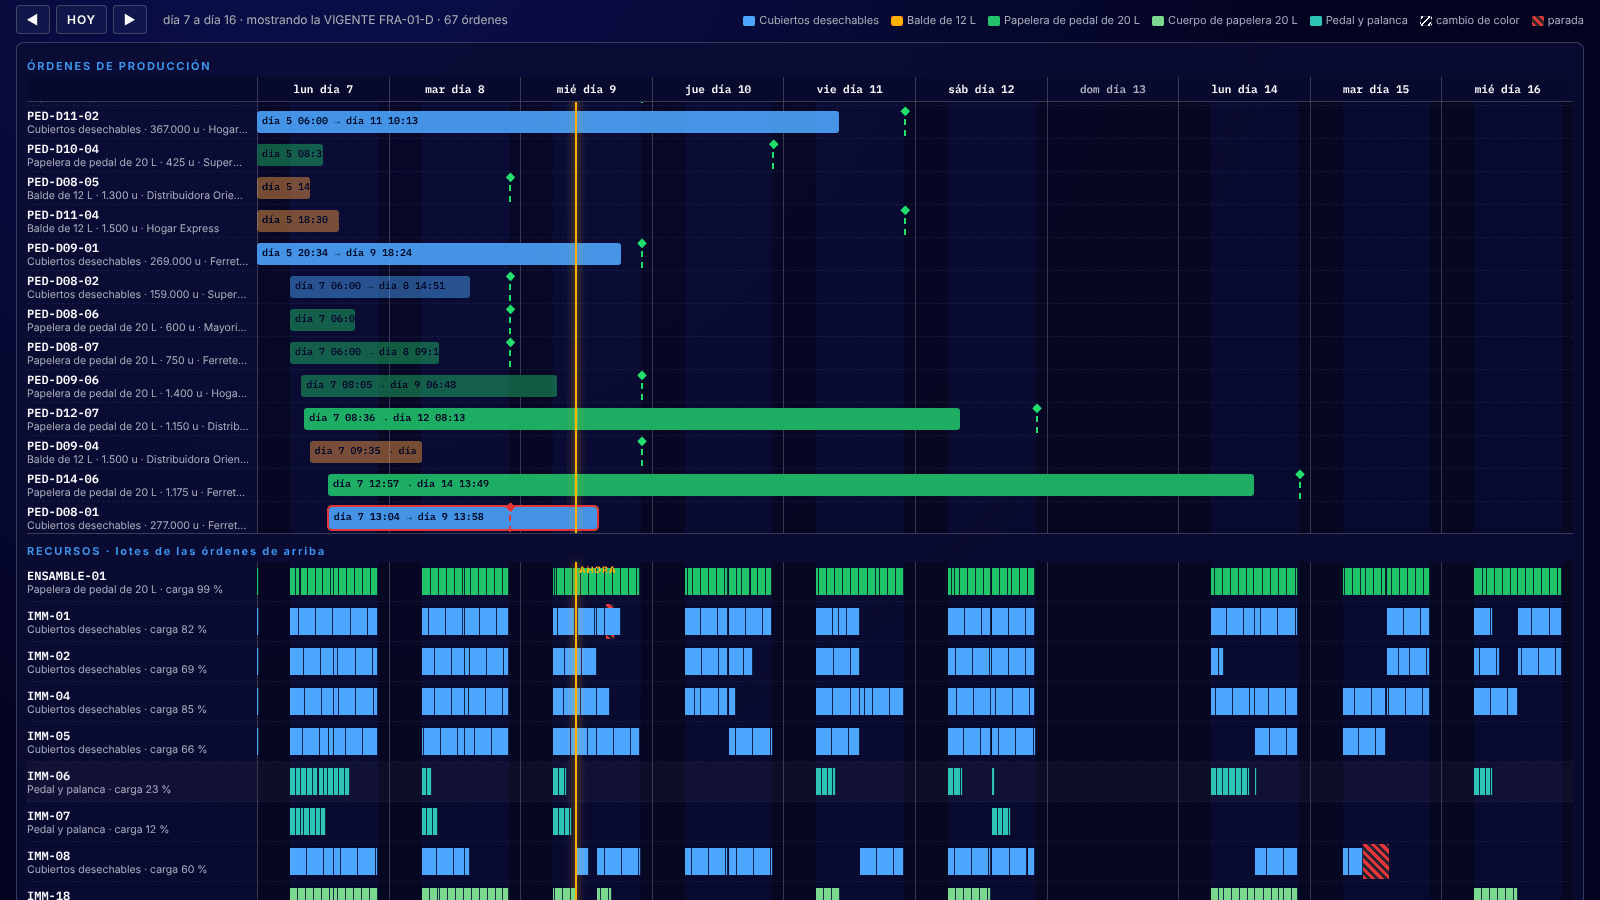
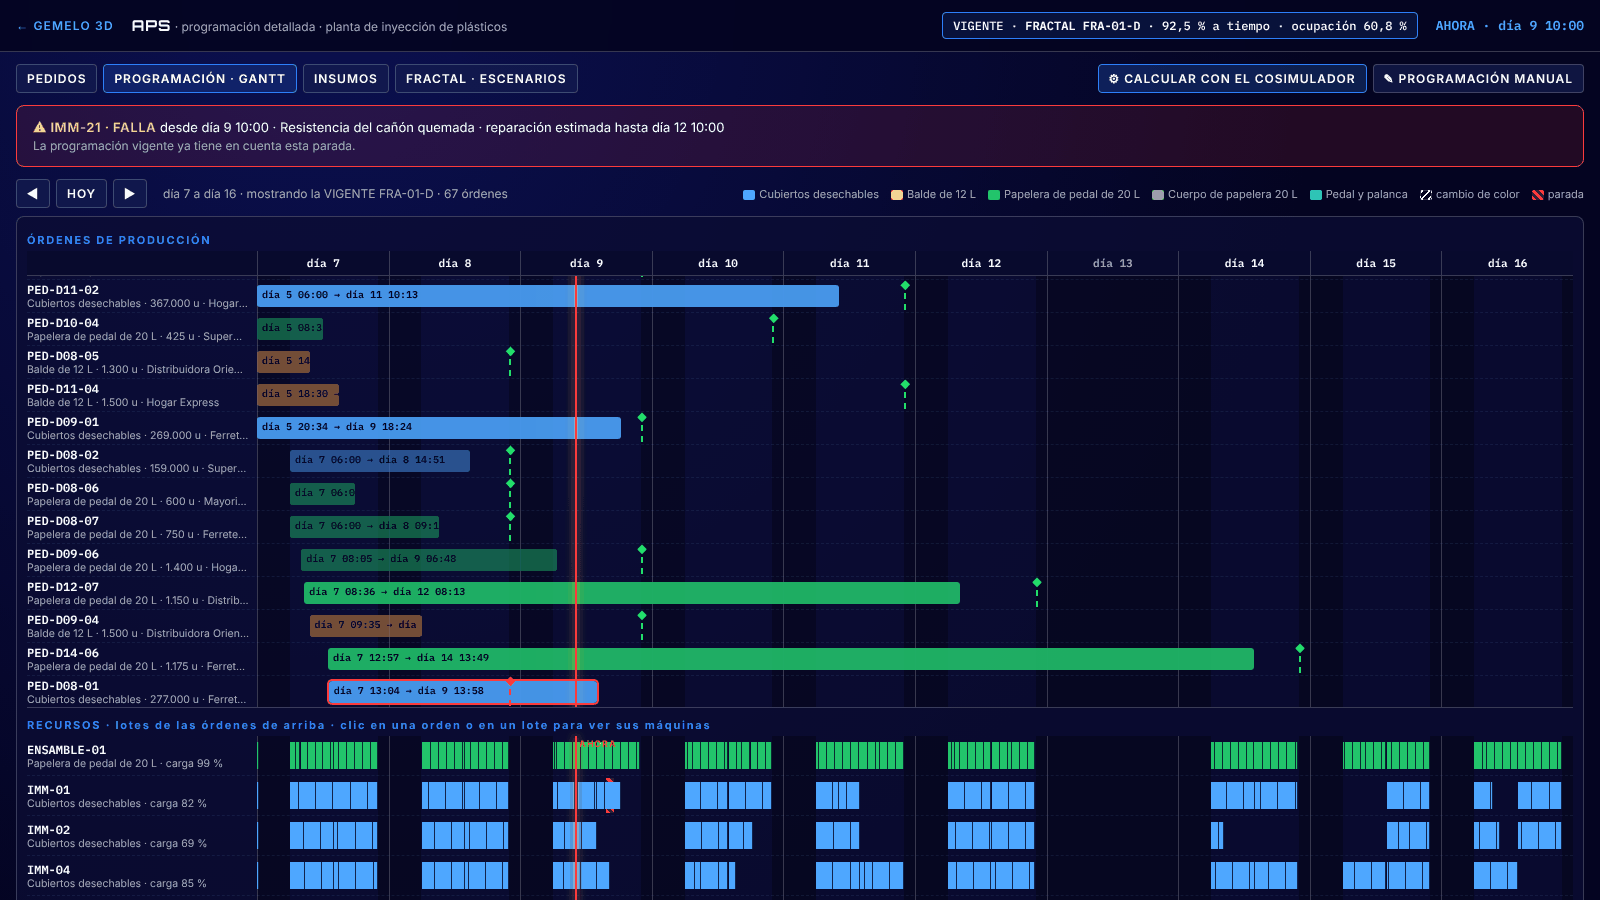
Gantt de plásticos: al seleccionar una orden se ven sus máquinas
- Las máquinas de la orden seleccionada suben, se resaltan y muestran sus lotes y horas; el resto se atenúa.
- Los lotes de la orden llevan borde y la fila de la orden lista sus máquinas.
- Encabezado del Gantt con "día N", sin días de la semana.
- Captura y segmento nuevos en el guion del escenario 1; capturas al día.

Claude-Session: https://claude.ai/code/session_01V6M9Lx1g6fUAMxYd38A1TL

diff --git a/apps/gallery/src/aps-page.ts b/apps/gallery/src/aps-page.ts
@@ -15,7 +15,7 @@ import "./styles.css";
 import "./aps.css";
 import type { CustomerOrder, Importance, ProductionPlan } from "@twin/cosim/core/contracts.ts";
 import { activeEvents, addedOrders, baseManual, molds, modelNow, manualPlan, model, now, onChange, portfolio, resetDemo, setAdded, setVigente, SOURCE_NAMES, useDemoDays, vigente } from "./aps-store.ts";
-import { COLOR_NAMES, day, esc, nf, when } from "./schedule.ts";
+import { COLOR_NAMES, day, esc, nf, relativeDays, when } from "./schedule.ts";
 import { renderInsumos } from "./insumos.ts";
 import { plantLoadAt } from "./plant-state.ts";
 import type { FractalStudy } from "@twin/fractal-manufacturing/contracts.ts";
@@ -318,7 +318,7 @@ function renderGantt(p: ProductionPlan): void {
     const d0 = from + d * DAY_MS;
     const date = new Date(d0);
     const work = model.calendar.workdays.includes(((date.getUTCDay() + 6) % 7) + 1);
-    head += `<div class="g-day${work ? "" : " off"}" style="${span(d0, d0 + DAY_MS)}">${WEEKDAYS[date.getUTCDay()]} ${day(isoOf(d0))}</div>`;
+    head += `<div class="g-day${work ? "" : " off"}" style="${span(d0, d0 + DAY_MS)}">${relativeDays() ? "" : `${WEEKDAYS[date.getUTCDay()]} `}${day(isoOf(d0))}</div>`;
     if (!work) grid += `<div class="g-off" style="${span(d0, d0 + DAY_MS)}"></div>`;
     else {
       const a = d0 + spans[0][0] * 60000;
@@ -328,6 +328,16 @@ function renderGantt(p: ProductionPlan): void {
     grid += `<div class="g-line" style="left:${pct(d0)}"></div>`;
   }
   const nowLine = t >= from && t <= to ? `<div class="g-now" style="left:${pct(t)}"><span>AHORA</span></div>` : "";
+
+  // Máquinas que trabajan la orden seleccionada (en todo el plan): lotes y horas.
+  const usedBy = new Map<string, { lots: number; h: number }>();
+  if (selected)
+    for (const r of p.schedule.filter((x) => x.order === selected).sort((a, b) => (a.start < b.start ? -1 : 1))) {
+      const u = usedBy.get(r.equipment) ?? { lots: 0, h: 0 };
+      u.lots += 1;
+      u.h += model.calendar.workBetween(ms(r.start) / 60000, ms(r.end) / 60000) / 60;
+      usedBy.set(r.equipment, u);
+    }
 
   // Arriba: una fila por pedido con actividad en la ventana.
   const orders = p.orders
@@ -340,8 +350,9 @@ function renderGantt(p: ProductionPlan): void {
       const due = ms(o.due);
       const color = PRODUCT_COLORS[o.product] ?? "#888";
       const late = o.late_h > 0;
-      return `<div class="g-row${o.id === selected ? " sel" : ""}" data-order="${esc(o.id)}">
-        <div class="g-label"><b>${esc(o.id)}</b><small>${esc(o.product_name)} · ${nf(o.quantity)} ${esc(o.unit)} · ${esc(o.customer)}</small></div>
+      const res = o.id === selected ? [...usedBy.keys()].map(machineLabel).join(" · ") : "";
+      return `<div class="g-row${o.id === selected ? " sel" : ""}" data-order="${esc(o.id)}" title="Clic: ver sus máquinas y lotes abajo">
+        <div class="g-label"><b>${esc(o.id)}</b><small>${esc(o.product_name)} · ${nf(o.quantity)} ${esc(o.unit)} · ${esc(o.customer)}</small>${res ? `<small class="g-uses">▸ ${esc(res)}</small>` : ""}</div>
         <div class="g-track">
           <div class="g-bar${late ? " late" : ""}${b <= t ? " done" : ""}" style="${span(a, b)};--c:${color}" title="${esc(o.id)}: ${when(o.start)} → ${when(o.completion)}${late ? ` · ${nf(o.late_h, 1)} h tarde` : ""}">
             <span>${when(o.start)} → ${when(o.completion)}</span></div>
@@ -352,7 +363,9 @@ function renderGantt(p: ProductionPlan): void {
 
   // Abajo: recursos con los lotes de esas órdenes.
   const visible = new Set(orders.map((o) => o.id));
-  const machines = [...new Set([...model.machines, ...p.schedule.map((r) => r.equipment)])].sort();
+  const machines = [...new Set([...model.machines, ...p.schedule.map((r) => r.equipment)])]
+    .sort()
+    .sort((a, b) => Number(usedBy.has(b)) - Number(usedBy.has(a)));
   const resRows = machines
     .map((m) => {
       const rows = p.schedule.filter((r) => r.equipment === m && inView(ms(r.start), ms(r.end)));
@@ -370,7 +383,8 @@ function renderGantt(p: ProductionPlan): void {
           return parts
             .map((x, i) => {
               const co = i === 0 ? Math.min(100, ((r.changeover_min * 60000) / Math.max(1, (x.end - x.start) * 60000)) * 100) : 0;
-              return `<div class="g-lot${dim}" style="${span(x.start * 60000, x.end * 60000)};--c:${PRODUCT_COLORS[r.product] ?? "#888"};--co:${co.toFixed(1)}%" data-order="${esc(r.order)}" title="${tip}"></div>`;
+              const mine = selected && r.order === selected ? " sel" : "";
+              return `<div class="g-lot${dim}${mine}" style="${span(x.start * 60000, x.end * 60000)};--c:${PRODUCT_COLORS[r.product] ?? "#888"};--co:${co.toFixed(1)}%" data-order="${esc(r.order)}" title="${tip}"></div>`;
             })
             .join("");
         })
@@ -380,7 +394,10 @@ function renderGantt(p: ProductionPlan): void {
         .filter((d) => d.equipment === m && inView(ms(d.start), ms(d.end)))
         .map((d) => `<div class="g-down" style="${span(ms(d.start), ms(d.end))}" title="Parada: ${esc(d.reason)} · ${when(d.start)} → ${when(d.end)}"></div>`)
         .join("");
-      return `<div class="g-row res"><div class="g-label"><b>${esc((MACHINE_NAMES[m] ?? m).toUpperCase())}</b><small>${esc(machineProducts(m))} · carga ${load} %</small></div><div class="g-track">${downs}${bars}</div></div>`;
+      const u = usedBy.get(m);
+      const cls = selected ? (u ? " used" : " unused") : "";
+      const info = u ? `${esc(selected!)}: ${u.lots} ${u.lots === 1 ? "lote" : "lotes"} · ${nf(u.h, 1)} h` : `${esc(machineProducts(m))} · carga ${load} %`;
+      return `<div class="g-row res${cls}"><div class="g-label"><b>${esc((MACHINE_NAMES[m] ?? m).toUpperCase())}</b><small>${info}</small></div><div class="g-track">${downs}${bars}</div></div>`;
     })
     .join("");
 
@@ -397,7 +414,7 @@ function renderGantt(p: ProductionPlan): void {
       <div class="g-section-title">ÓRDENES DE PRODUCCIÓN</div>
       <div class="g-head"><div class="g-label"></div><div class="g-track">${head}</div></div>
       <div class="g-scroll"><div class="g-body g-orders"><div class="g-gridlayer"><div class="g-label"></div><div class="g-track">${grid}${nowLine}</div></div>${orderRows || '<p class="dim small">Sin órdenes en estos días.</p>'}</div></div>
-      <div class="g-section-title">RECURSOS · lotes de las órdenes de arriba${selected ? ` · resaltada ${esc(selected)}` : ""}</div>
+      <div class="g-section-title">${selected ? `RECURSOS DE ${esc(selected)} · ${usedBy.size} ${usedBy.size === 1 ? "máquina" : "máquinas"} arriba, resaltadas; el resto atenuado · clic de nuevo en la orden para quitar` : "RECURSOS · lotes de las órdenes de arriba · clic en una orden o en un lote para ver sus máquinas"}</div>
       <div class="g-body g-res"><div class="g-gridlayer"><div class="g-label"></div><div class="g-track">${grid}${nowLine}</div></div>${resRows}</div>
     </div>`;
   // La primera vez se abre en la primera orden que aún no termina.

diff --git a/apps/gallery/src/aps.css b/apps/gallery/src/aps.css
@@ -93,6 +93,11 @@ body.aps-page { font: 400 13px Inter, sans-serif; background: radial-gradient(ci
 .g-due.late::after { color: var(--bad); }
 .g-lot { position: absolute; top: 6px; bottom: 6px; min-width: 2px; background: linear-gradient(90deg, transparent 0 var(--co), var(--c) var(--co)), repeating-linear-gradient(135deg, #fff 0 2px, transparent 2px 5px); border-right: 1px solid rgba(4, 4, 33, 0.8); z-index: 1; cursor: pointer; }
 .g-lot.dim { opacity: 0.22; }
+.g-lot.sel { outline: 2px solid #ffffff; outline-offset: -1px; z-index: 2; }
+.g-row.res.used { background: rgba(45, 127, 249, 0.14); }
+.g-row.res.used .g-label b { color: #6fb1ff; }
+.g-row.res.unused { opacity: 0.4; }
+.g-uses { color: #6fb1ff; }
 .g-down { position: absolute; top: 2px; bottom: 2px; background: repeating-linear-gradient(45deg, var(--bad) 0 3px, rgba(255, 59, 59, 0.25) 3px 6px); opacity: 0.8; z-index: 1; }
 #tab-gantt { overflow-x: auto; }
 .g-scroll { max-height: 48vh; overflow-y: auto; border-bottom: 1px solid var(--line); }

diff --git a/docs/demo-plasticos/1-calcular-programacion/guion.md b/docs/demo-plasticos/1-calcular-programacion/guion.md
@@ -2,7 +2,7 @@
 title: Guion · Calcular la programación
 escenario: 1-calcular-programacion
 tags: [demo, plasticos, guion, aps, cosimulador, fractal]
-duracion_aprox: 3 min
+duracion_aprox: 3 min 15 s
 ---
 
 # Escenario 1 · Calcular la programación según las entregas
@@ -44,35 +44,42 @@ Mensaje central: a partir de los pedidos y sus fechas de entrega, el cosimulador
 
 > Adoptamos la propuesta y pasa a ser la programación vigente. Las órdenes se reacomodan para llegar antes de su fecha.
 
-### S06 · La planta con el plan nuevo
+### S06 · Qué máquinas hacen cada orden
+- imagen: capturas/05b-gantt-orden.png
+- duración: 16 s
+- en pantalla: la orden seleccionada arriba y sus tres máquinas resaltadas abajo
+
+> Al hacer clic en una orden, sus máquinas suben y se resaltan, con sus lotes y sus horas, y el resto queda atenuado. Esta papelera pasa por tres recursos: la inyectora diecinueve hace el cuerpo, la siete hace el pedal y la línea de ensamble la arma.
+
+### S07 · La planta con el plan nuevo
 - imagen: capturas/06-centro-control.png
 - duración: 18 s
 - en pantalla: las tarjetas de IMM-21 e IMM-23 en ámbar y rojo
 
 > Con el plan del cosimulador, la planta queda ocupada al sesenta y dos por ciento en la semana. Pero si miramos máquina por máquina, las dos inyectoras del balde y la línea de ensamble están casi llenas, mientras otras tienen tiempo libre. Ese es el cuello de botella.
 
-### S07 · Fractal balancea la ocupación
+### S08 · Fractal balancea la ocupación
 - imagen: capturas/07-fractal-balancear.png
 - duración: 26 s
 - en pantalla: la recomendación, la fila B "MEJOR" y la columna OCUPACIÓN PLANTA
 
 > Aquí entra Fractal. Además de la secuencia, prueba cambios en la planta. Su recomendación: montar el molde de repuesto del balde, que está en el almacén, en la inyectora veinte, que está libre. Con noventa minutos de montaje, la máquina más cargada baja del setenta al sesenta y dos por ciento, sin atrasar ningún pedido, y la ocupación de la planta baja al cincuenta y nueve por ciento. Cada opción se puede ver en el Gantt y adoptar; Fractal recomienda y la persona decide.
 
-### S08 · El Gantt balanceado
+### S09 · El Gantt balanceado
 - imagen: capturas/08-gantt-balanceado.png
 - duración: 12 s
 - en pantalla: las filas IMM-20 e IMM-21 en la parte de recursos
 
 > Adoptamos y el trabajo del balde queda repartido entre dos máquinas.
 
-### S09 · Más capacidad disponible
+### S10 · Más capacidad disponible
 - imagen: capturas/09-centro-control-balanceado.png
 - duración: 14 s
 - en pantalla: el indicador de ocupación semanal
 
 > Con una máquina más en juego, la planta tiene mil doscientas cuarenta horas disponibles en la semana y la ocupación baja al cincuenta y nueve por ciento. Queda espacio para recibir más pedidos.
 
-### S10 · Los insumos del plan
+### S11 · Los insumos del plan
 - imagen: capturas/10-insumos.png
 - duración: 24 s
 - en pantalla: los indicadores de arriba y la tabla de materia prima
